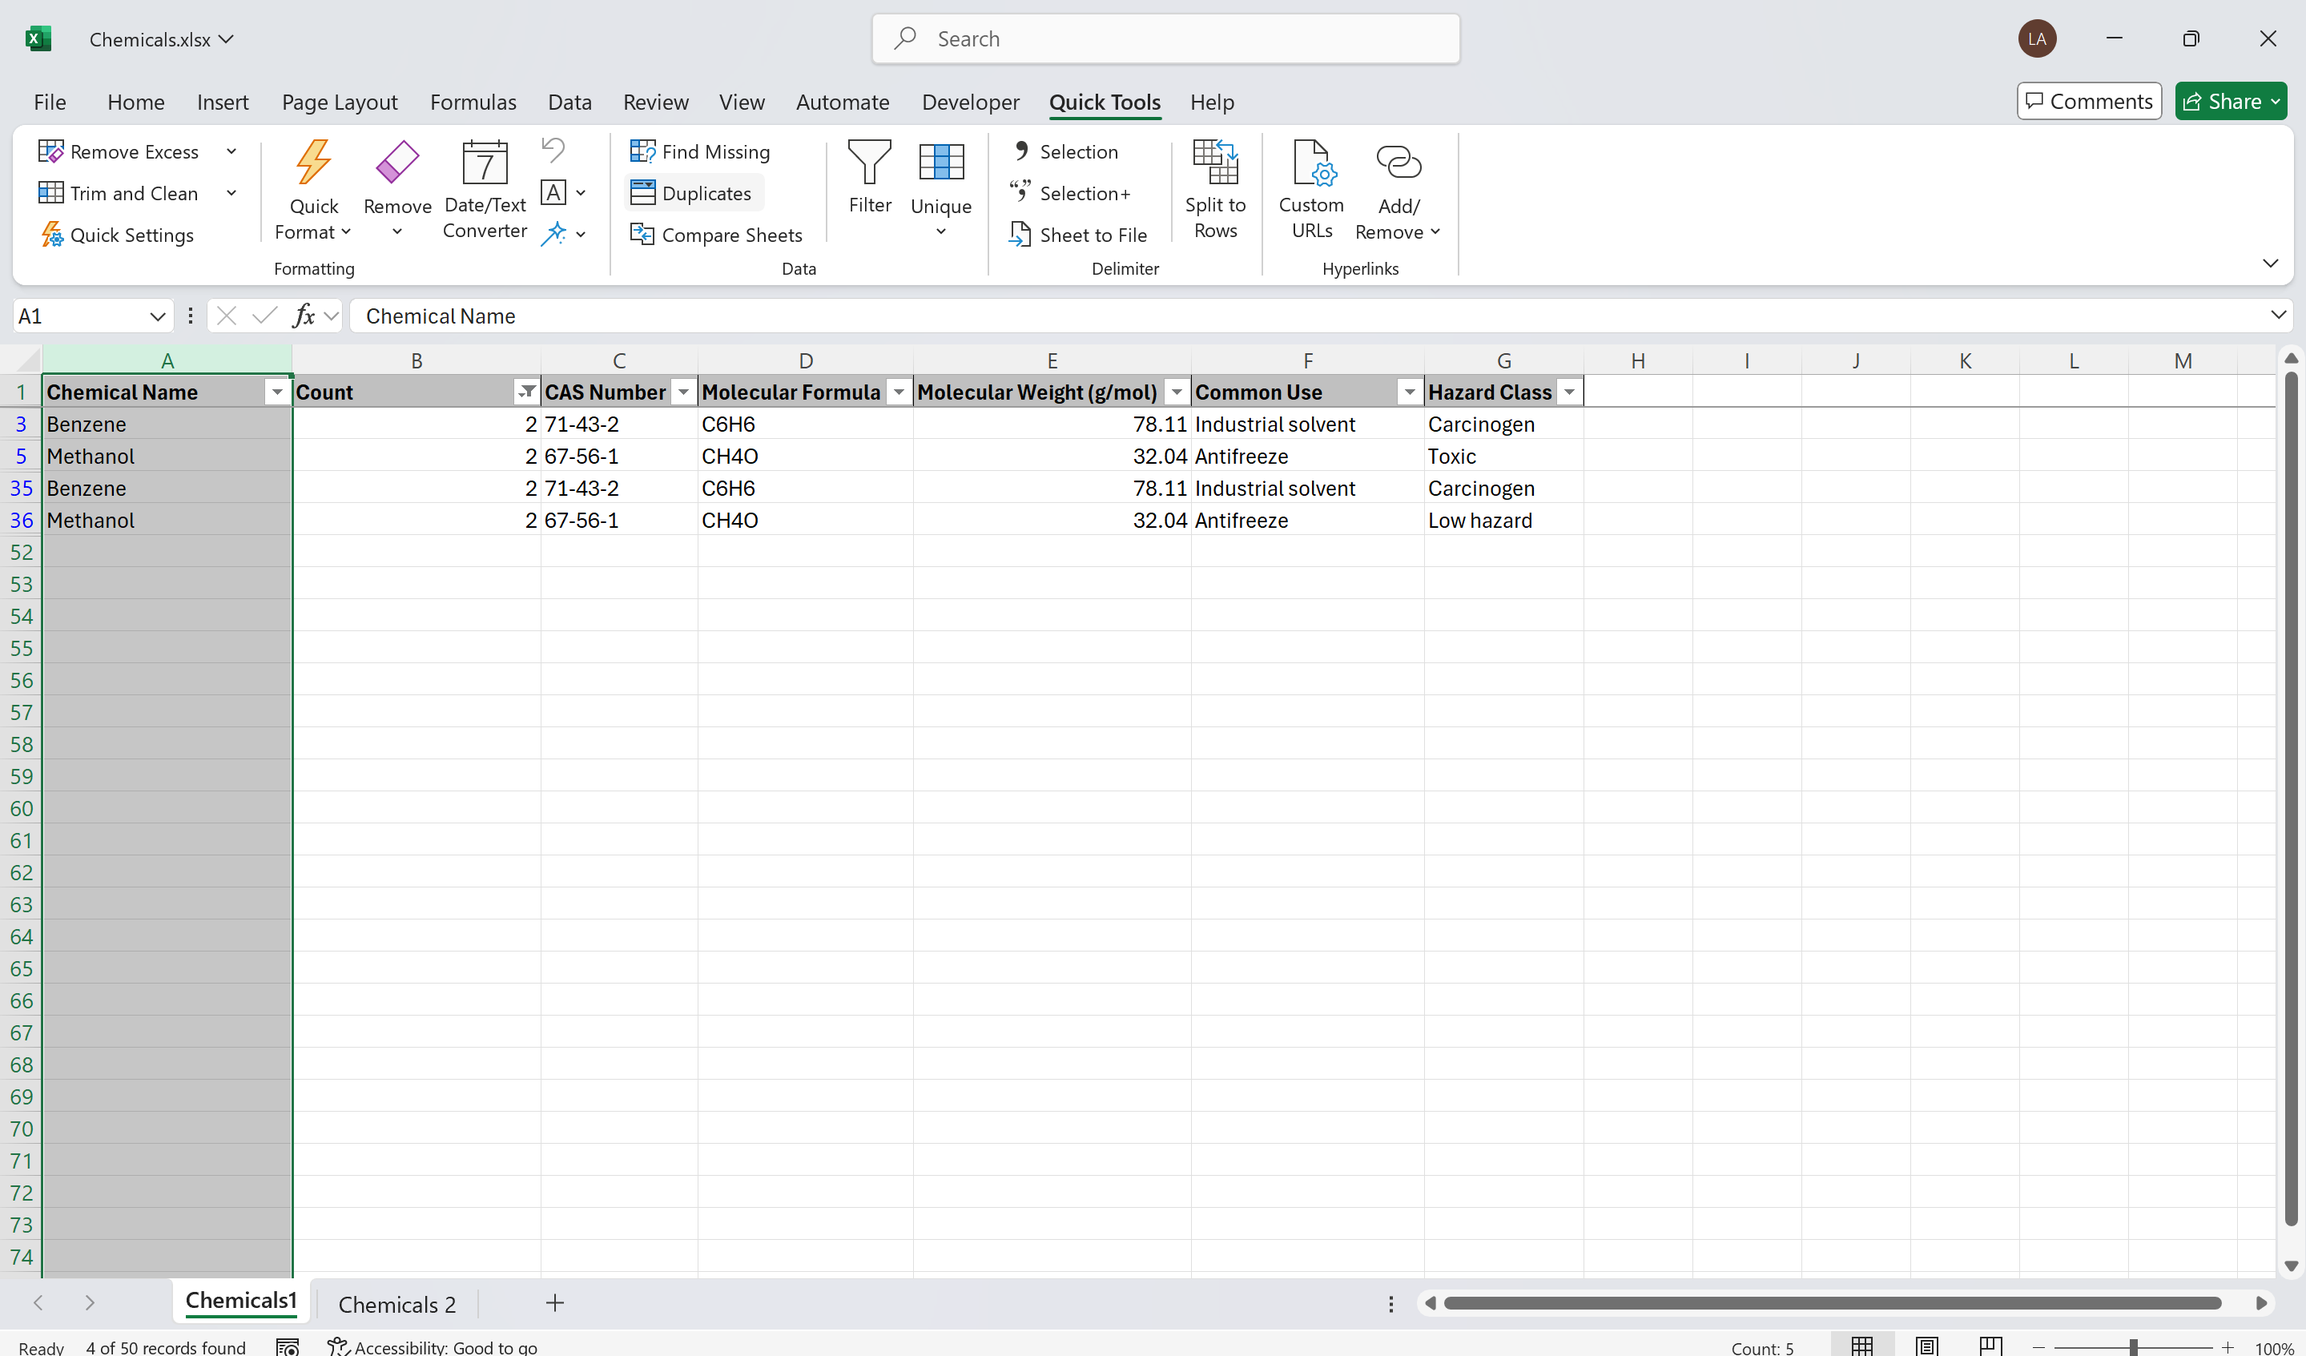
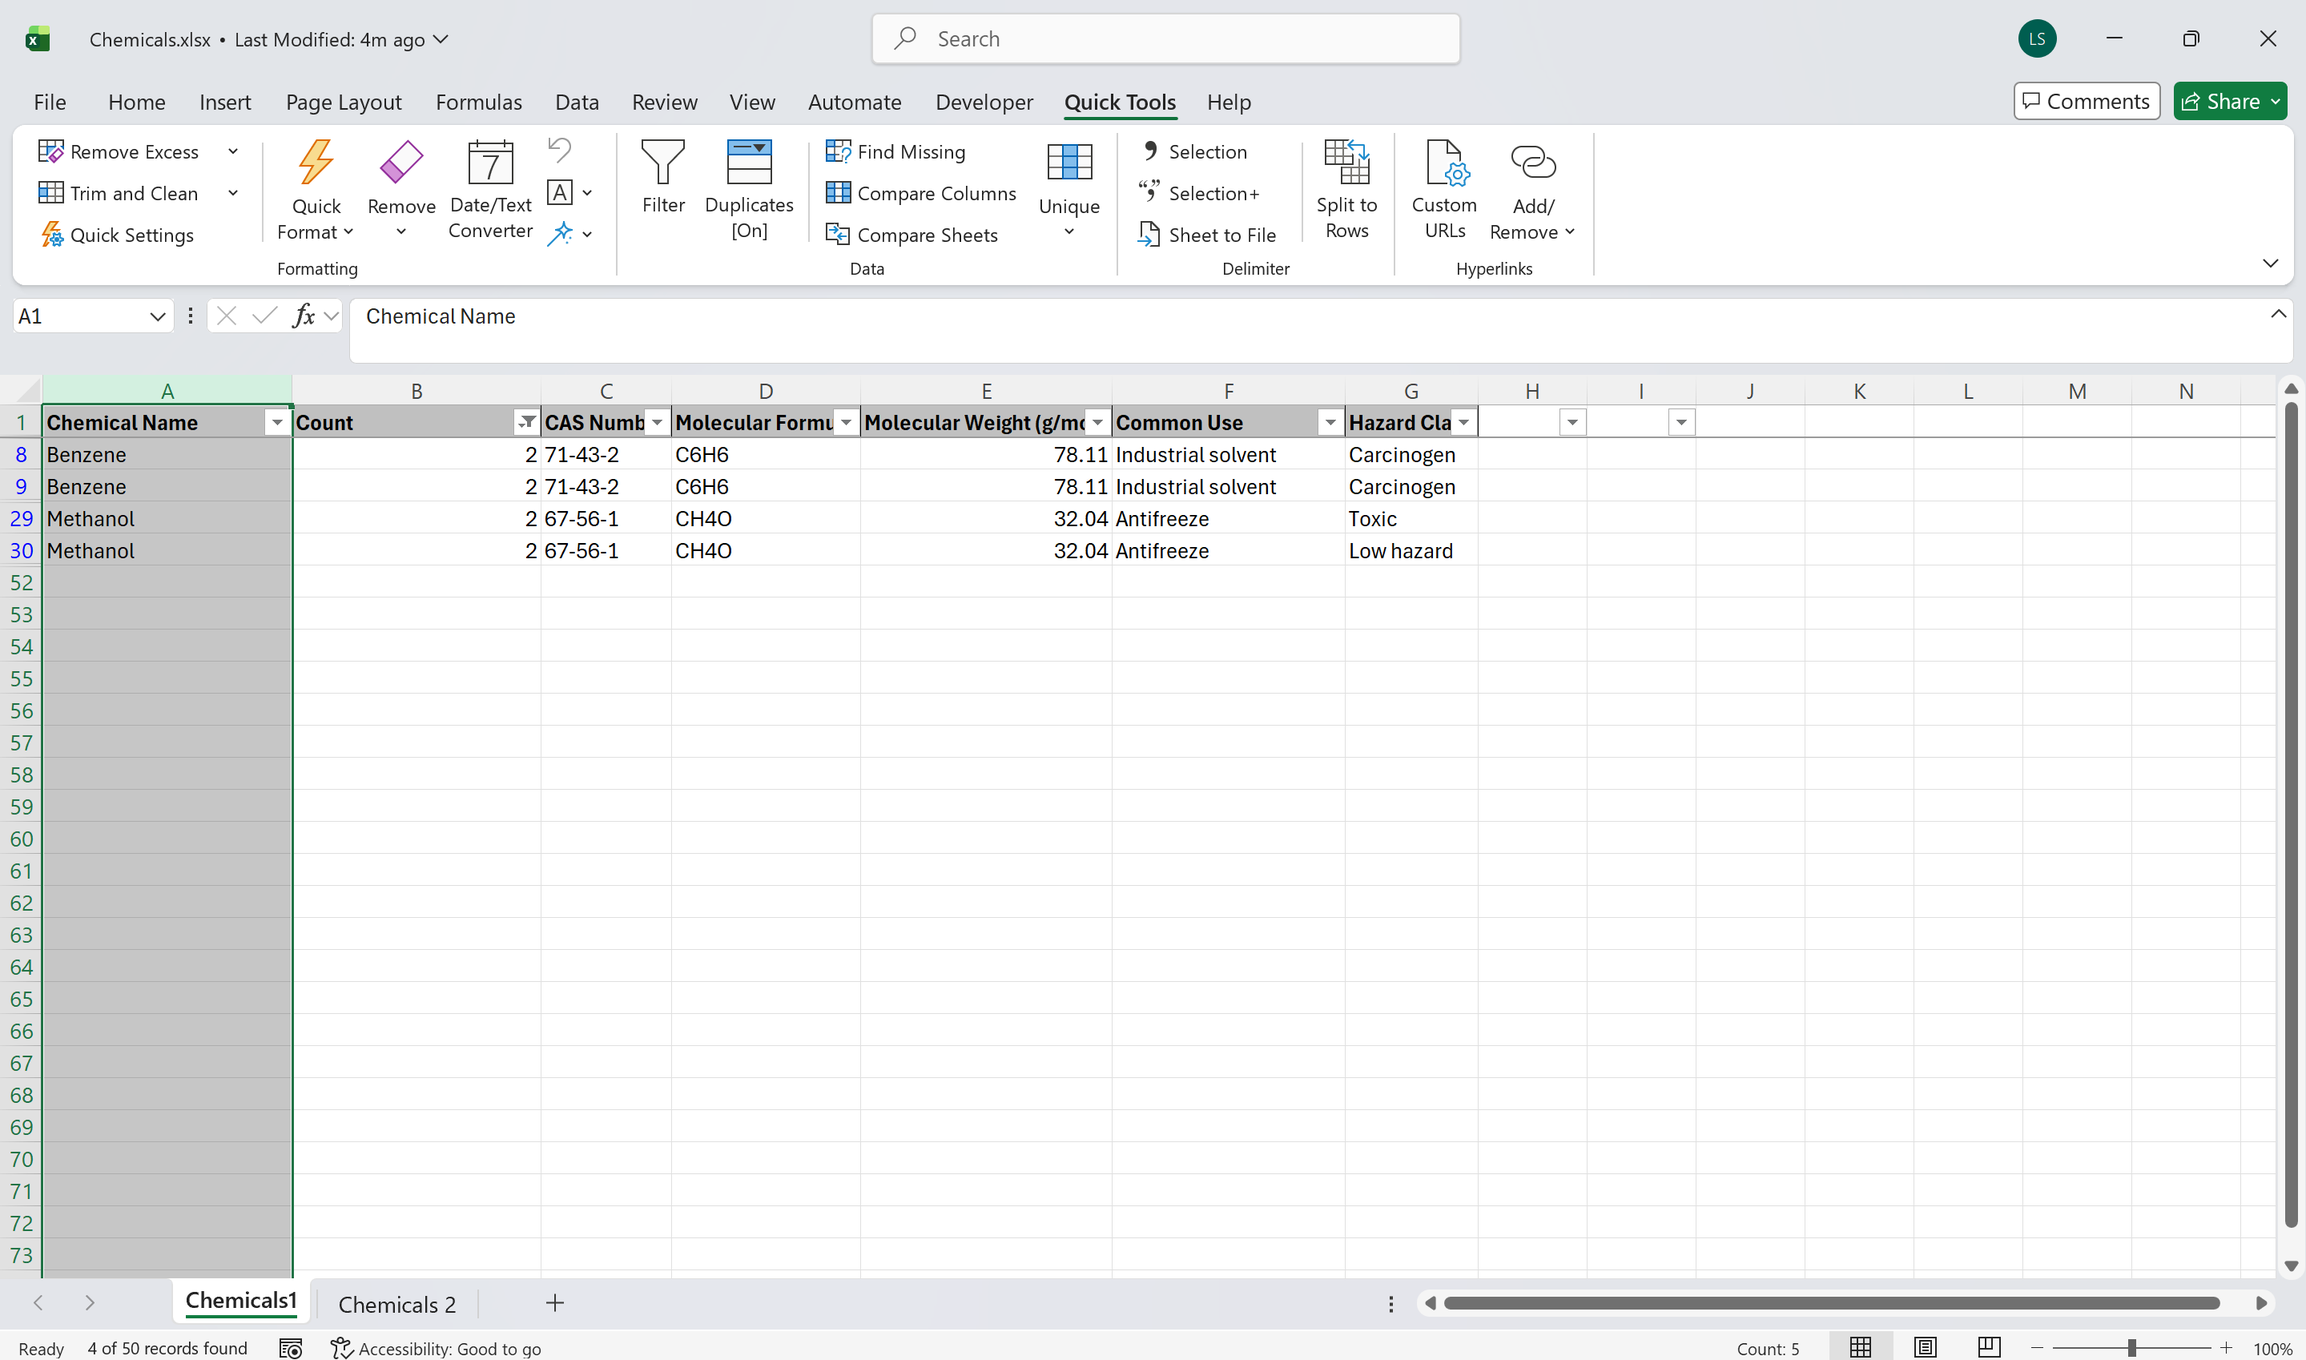
Updated images. Cleanup for release 11

diff --git a/XLQuickTools/Ribbon1.Designer.cs b/XLQuickTools/Ribbon1.Designer.cs
@@ -36,12 +36,6 @@
         {
             this.XLQuickTools_Tab = this.Factory.CreateRibbonTab();
             this.Group_Formatting = this.Factory.CreateRibbonGroup();
-            this.Separator_Formatting = this.Factory.CreateRibbonSeparator();
-            this.Group_Data = this.Factory.CreateRibbonGroup();
-            this.Separator_Data = this.Factory.CreateRibbonSeparator();
-            this.Group_Delimiter = this.Factory.CreateRibbonGroup();
-            this.Separator_Delimiter = this.Factory.CreateRibbonSeparator();
-            this.Group_Hyperlinks = this.Factory.CreateRibbonGroup();
             this.BtnRemoveExcess = this.Factory.CreateRibbonSplitButton();
             this.BtnRemoveExcessWS = this.Factory.CreateRibbonButton();
             this.BtnRemoveExcessWB = this.Factory.CreateRibbonButton();
@@ -51,6 +45,7 @@
             this.BtnTrimCleanWorkbook = this.Factory.CreateRibbonButton();
             this.BtnTrimCleanSettings = this.Factory.CreateRibbonButton();
             this.BtnQuickSettings = this.Factory.CreateRibbonButton();
+            this.Separator_Formatting = this.Factory.CreateRibbonSeparator();
             this.BtnQuickFormat = this.Factory.CreateRibbonSplitButton();
             this.BtnQuickFormatSub = this.Factory.CreateRibbonButton();
             this.BtnQuickFormatAll = this.Factory.CreateRibbonButton();
@@ -91,19 +86,24 @@
             this.separator6 = this.Factory.CreateRibbonSeparator();
             this.BtnFileList = this.Factory.CreateRibbonButton();
             this.BtnDisplayLength = this.Factory.CreateRibbonButton();
+            this.Group_Data = this.Factory.CreateRibbonGroup();
+            this.BtnFilter = this.Factory.CreateRibbonButton();
             this.BtnDuplicates = this.Factory.CreateRibbonButton();
+            this.Separator_Data = this.Factory.CreateRibbonSeparator();
             this.BtnMissing = this.Factory.CreateRibbonButton();
             this.BtnColumnCheck = this.Factory.CreateRibbonButton();
             this.BtnCompare = this.Factory.CreateRibbonButton();
-            this.BtnFilter = this.Factory.CreateRibbonButton();
             this.SBtnUniqueClipboard = this.Factory.CreateRibbonSplitButton();
             this.BtnUniqueClipboard = this.Factory.CreateRibbonButton();
             this.BtnCopyToSheets = this.Factory.CreateRibbonButton();
             this.BtnColumnInfo = this.Factory.CreateRibbonButton();
+            this.Group_Delimiter = this.Factory.CreateRibbonGroup();
             this.BtnCommaSelection = this.Factory.CreateRibbonButton();
             this.BtnDelimSelection = this.Factory.CreateRibbonButton();
             this.BtnSheetToFile = this.Factory.CreateRibbonButton();
+            this.Separator_Delimiter = this.Factory.CreateRibbonSeparator();
             this.BtnSplitToRows = this.Factory.CreateRibbonButton();
+            this.Group_Hyperlinks = this.Factory.CreateRibbonGroup();
             this.BtnHyperlinkSettings = this.Factory.CreateRibbonButton();
             this.BtnHyperlinks = this.Factory.CreateRibbonSplitButton();
             this.BtnAddHyperlinks = this.Factory.CreateRibbonButton();
@@ -141,48 +141,6 @@
             this.Group_Formatting.Items.Add(this.AdditionalMenu);
             this.Group_Formatting.Label = "Formatting";
             this.Group_Formatting.Name = "Group_Formatting";
-            // 
-            // Separator_Formatting
-            // 
-            this.Separator_Formatting.Name = "Separator_Formatting";
-            // 
-            // Group_Data
-            // 
-            this.Group_Data.Items.Add(this.BtnDuplicates);
-            this.Group_Data.Items.Add(this.BtnMissing);
-            this.Group_Data.Items.Add(this.BtnColumnCheck);
-            this.Group_Data.Items.Add(this.BtnCompare);
-            this.Group_Data.Items.Add(this.Separator_Data);
-            this.Group_Data.Items.Add(this.BtnFilter);
-            this.Group_Data.Items.Add(this.SBtnUniqueClipboard);
-            this.Group_Data.Items.Add(this.BtnColumnInfo);
-            this.Group_Data.Label = "Data";
-            this.Group_Data.Name = "Group_Data";
-            // 
-            // Separator_Data
-            // 
-            this.Separator_Data.Name = "Separator_Data";
-            // 
-            // Group_Delimiter
-            // 
-            this.Group_Delimiter.Items.Add(this.BtnCommaSelection);
-            this.Group_Delimiter.Items.Add(this.BtnDelimSelection);
-            this.Group_Delimiter.Items.Add(this.BtnSheetToFile);
-            this.Group_Delimiter.Items.Add(this.Separator_Delimiter);
-            this.Group_Delimiter.Items.Add(this.BtnSplitToRows);
-            this.Group_Delimiter.Label = "Delimiter";
-            this.Group_Delimiter.Name = "Group_Delimiter";
-            // 
-            // Separator_Delimiter
-            // 
-            this.Separator_Delimiter.Name = "Separator_Delimiter";
-            // 
-            // Group_Hyperlinks
-            // 
-            this.Group_Hyperlinks.Items.Add(this.BtnHyperlinkSettings);
-            this.Group_Hyperlinks.Items.Add(this.BtnHyperlinks);
-            this.Group_Hyperlinks.Label = "Hyperlinks";
-            this.Group_Hyperlinks.Name = "Group_Hyperlinks";
             // 
             // BtnRemoveExcess
             // 
@@ -270,6 +228,10 @@
             this.BtnQuickSettings.SuperTip = "Quick Format Settings\n\nSettings you want applied when using the \"Quick Format\" bu" +
     "tton.";
             this.BtnQuickSettings.Click += new Microsoft.Office.Tools.Ribbon.RibbonControlEventHandler(this.BtnQuickSettings_Click);
+            // 
+            // Separator_Formatting
+            // 
+            this.Separator_Formatting.Name = "Separator_Formatting";
             // 
             // BtnQuickFormat
             // 
@@ -638,6 +600,28 @@
     "Off].";
             this.BtnDisplayLength.Click += new Microsoft.Office.Tools.Ribbon.RibbonControlEventHandler(this.BtnDisplayLength_Click);
             // 
+            // Group_Data
+            // 
+            this.Group_Data.Items.Add(this.BtnFilter);
+            this.Group_Data.Items.Add(this.BtnDuplicates);
+            this.Group_Data.Items.Add(this.Separator_Data);
+            this.Group_Data.Items.Add(this.BtnMissing);
+            this.Group_Data.Items.Add(this.BtnColumnCheck);
+            this.Group_Data.Items.Add(this.BtnCompare);
+            this.Group_Data.Items.Add(this.SBtnUniqueClipboard);
+            this.Group_Data.Label = "Data";
+            this.Group_Data.Name = "Group_Data";
+            // 
+            // BtnFilter
+            // 
+            this.BtnFilter.ControlSize = Microsoft.Office.Core.RibbonControlSize.RibbonControlSizeLarge;
+            this.BtnFilter.Label = "Filter";
+            this.BtnFilter.Name = "BtnFilter";
+            this.BtnFilter.OfficeImageId = "DataFilter";
+            this.BtnFilter.ShowImage = true;
+            this.BtnFilter.SuperTip = "Filter\n\nToggle filtering on/off";
+            this.BtnFilter.Click += new Microsoft.Office.Tools.Ribbon.RibbonControlEventHandler(this.BtnFilter_Click);
+            // 
             // BtnDuplicates
             // 
             this.BtnDuplicates.ControlSize = Microsoft.Office.Core.RibbonControlSize.RibbonControlSizeLarge;
@@ -648,6 +632,10 @@
             this.BtnDuplicates.SuperTip = "Check for Duplicates\n\nCheck if a selected column contains duplicates. Toggle on/o" +
     "ff a count column based on the selected column.";
             this.BtnDuplicates.Click += new Microsoft.Office.Tools.Ribbon.RibbonControlEventHandler(this.BtnDuplicates_Click);
+            // 
+            // Separator_Data
+            // 
+            this.Separator_Data.Name = "Separator_Data";
             // 
             // BtnMissing
             // 
@@ -678,21 +666,12 @@
             this.BtnCompare.SuperTip = "Compare Worksheets\n\nToggle on/off the task pane to compare two worksheets.";
             this.BtnCompare.Click += new Microsoft.Office.Tools.Ribbon.RibbonControlEventHandler(this.BtnCompare_Click);
             // 
-            // BtnFilter
-            // 
-            this.BtnFilter.ControlSize = Microsoft.Office.Core.RibbonControlSize.RibbonControlSizeLarge;
-            this.BtnFilter.Label = "Filter";
-            this.BtnFilter.Name = "BtnFilter";
-            this.BtnFilter.OfficeImageId = "DataFilter";
-            this.BtnFilter.ShowImage = true;
-            this.BtnFilter.SuperTip = "Filter\n\nToggle filtering on/off";
-            this.BtnFilter.Click += new Microsoft.Office.Tools.Ribbon.RibbonControlEventHandler(this.BtnFilter_Click);
-            // 
             // SBtnUniqueClipboard
             // 
             this.SBtnUniqueClipboard.ControlSize = Microsoft.Office.Core.RibbonControlSize.RibbonControlSizeLarge;
             this.SBtnUniqueClipboard.Items.Add(this.BtnUniqueClipboard);
             this.SBtnUniqueClipboard.Items.Add(this.BtnCopyToSheets);
+            this.SBtnUniqueClipboard.Items.Add(this.BtnColumnInfo);
             this.SBtnUniqueClipboard.Label = "Unique";
             this.SBtnUniqueClipboard.Name = "SBtnUniqueClipboard";
             this.SBtnUniqueClipboard.OfficeImageId = "TableColumnSelect";
@@ -721,14 +700,23 @@
             // 
             // BtnColumnInfo
             // 
-            this.BtnColumnInfo.ControlSize = Microsoft.Office.Core.RibbonControlSize.RibbonControlSizeLarge;
-            this.BtnColumnInfo.Label = "Column Info";
+            this.BtnColumnInfo.Label = "Column &Information";
             this.BtnColumnInfo.Name = "BtnColumnInfo";
             this.BtnColumnInfo.OfficeImageId = "Info";
             this.BtnColumnInfo.ShowImage = true;
-            this.BtnColumnInfo.SuperTip = "Column Information\n\nDisplays details on the selected column: unique values, numbe" +
-    "r of duplicates, blanks, non-blanks, and total row count.";
+            this.BtnColumnInfo.SuperTip = "Displays details on the selected column: unique values, number of duplicates, bla" +
+    "nks, non-blanks, and total row count.";
             this.BtnColumnInfo.Click += new Microsoft.Office.Tools.Ribbon.RibbonControlEventHandler(this.BtnColumnInfo_Click);
+            // 
+            // Group_Delimiter
+            // 
+            this.Group_Delimiter.Items.Add(this.BtnCommaSelection);
+            this.Group_Delimiter.Items.Add(this.BtnDelimSelection);
+            this.Group_Delimiter.Items.Add(this.BtnSheetToFile);
+            this.Group_Delimiter.Items.Add(this.Separator_Delimiter);
+            this.Group_Delimiter.Items.Add(this.BtnSplitToRows);
+            this.Group_Delimiter.Label = "Delimiter";
+            this.Group_Delimiter.Name = "Group_Delimiter";
             // 
             // BtnCommaSelection
             // 
@@ -758,6 +746,10 @@
             this.BtnSheetToFile.SuperTip = "Worksheet to File\n\nCreate a delimited file using the current active worksheet.";
             this.BtnSheetToFile.Click += new Microsoft.Office.Tools.Ribbon.RibbonControlEventHandler(this.BtnSheetToFile_Click);
             // 
+            // Separator_Delimiter
+            // 
+            this.Separator_Delimiter.Name = "Separator_Delimiter";
+            // 
             // BtnSplitToRows
             // 
             this.BtnSplitToRows.ControlSize = Microsoft.Office.Core.RibbonControlSize.RibbonControlSizeLarge;
@@ -767,6 +759,13 @@
             this.BtnSplitToRows.ShowImage = true;
             this.BtnSplitToRows.SuperTip = "Split Columns to Rows\n\nSplit delimited column(s) to rows.";
             this.BtnSplitToRows.Click += new Microsoft.Office.Tools.Ribbon.RibbonControlEventHandler(this.BtnSplitToRows_Click);
+            // 
+            // Group_Hyperlinks
+            // 
+            this.Group_Hyperlinks.Items.Add(this.BtnHyperlinkSettings);
+            this.Group_Hyperlinks.Items.Add(this.BtnHyperlinks);
+            this.Group_Hyperlinks.Label = "Hyperlinks";
+            this.Group_Hyperlinks.Name = "Group_Hyperlinks";
             // 
             // BtnHyperlinkSettings
             // 

diff --git a/XLQuickTools/QTFormat.cs b/XLQuickTools/QTFormat.cs
@@ -390,8 +390,9 @@ namespace XLQuickTools
                 excelApp.ActiveWindow.Zoom = 100;
 
                 // Reset row height and column width
-                sheet.Rows.RowHeight = sheet.StandardHeight;
-                sheet.Columns.ColumnWidth = sheet.StandardWidth;
+                sheet.StandardWidth = QTConstants.DEFAULT_COLUMN_WIDTH;
+                entireSheet.UseStandardHeight = true;
+                entireSheet.UseStandardWidth = true;
             }
             catch (Exception ex)
             {

diff --git a/README.md b/README.md
@@ -16,8 +16,9 @@ An Excel VSTO Add-in featuring a collection of different tools.
   - [Date/Text Converter](#datetext-converter)
   - [Text Tools](#text-tools)
   - [Additional Options](#additional-options)
-  - [Find Missing Data](#find-missing-data)
   - [Check for Duplicates](#check-for-duplicates)
+  - [Find Missing Data](#find-missing-data)
+  - [Compare Columns](#compare-columns)
   - [Compare Worksheets](#compare-worksheets)
   - [Unique Data Options](#unique-data-options)
   - [Selection/Selection+ to Clipboard](#selection)
@@ -91,12 +92,8 @@ Restores the range back to its original state. Excels Undo button will not work 
 - **Create File List:** Create a list of files for a selected folder.
 - **Display Length:** Displays the active cells length in the status bar. You can toggle this on or off.
 
-### **Find Missing Data**
-Displays missing data between two selected ranges. This can be extended across multiple columns, worksheets or open workbooks. If you prefer to have the results on a new worksheet you can adjust the threshold.
-
-<div align="center">
-<img src="images/FindMissing.png" alt="Screenshot">
-</div>
+### **Filter**
+The built-in Excel Filter button, placed on the Quick Tools tab for easier access while using other tools in the add-in.
 
 ### **Check for Duplicates**
 Checks for duplicates in a selected column:
@@ -108,15 +105,22 @@ Checks for duplicates in a selected column:
 <img src="images/Duplicates.png" alt="Screenshot">
 </div>
 
+### **Find Missing Data**
+Displays missing data between two selected ranges. This can be extended across multiple columns, worksheets or open workbooks. If you prefer to have the results on a new worksheet you can adjust the threshold.
+
+<div align="center">
+<img src="images/FindMissing.png" alt="Screenshot">
+</div>
+
+### **Compare Columns**
+Compares two columns and inserts a TRUE/FALSE column beside each showing whether the value exists in the other.
+
 ### **Compare Worksheets**
 Compares two worksheets, even if they belong to different workbooks, provided both are open. Highlights any differences between the selected worksheets and provides a link to each difference. The refresh button clears the form and updates the dropdown lists if a new workbook has been opened. If you prefer to view the results on a new worksheet, you can adjust the threshold.
 
 <div align="center">
 <img src="images/CompareSheets.png" alt="Screenshot">
 </div>
-
-### **Filter**
-The built-in Excel Filter button, placed on the Quick Tools tab for easier access while using other tools in the add-in.
 
 ### **Unique Data Options**
 - **Selection to Clipboard:** Copy the selections unique data to clipboard. Option to use a delimiter is also available.
